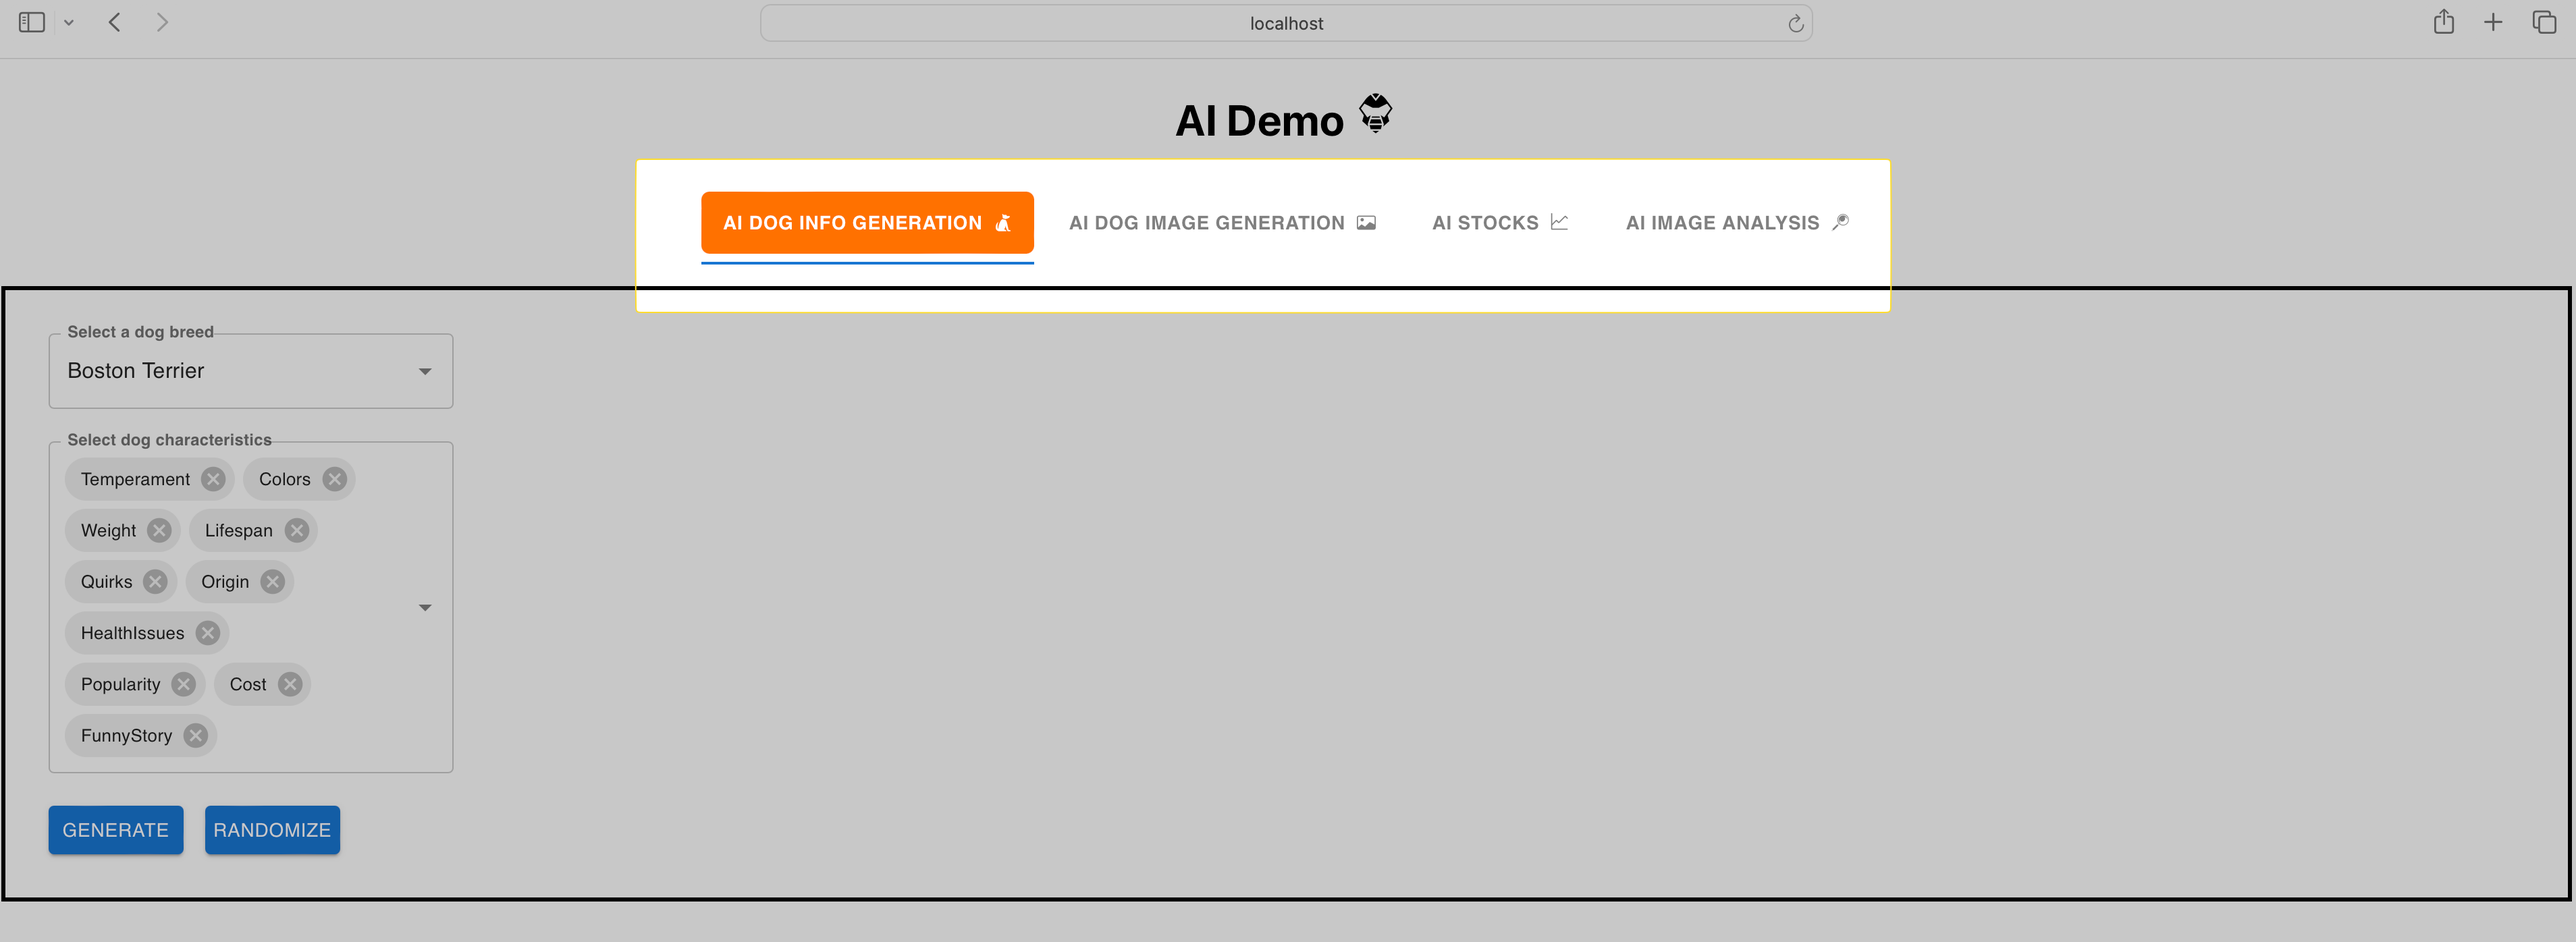
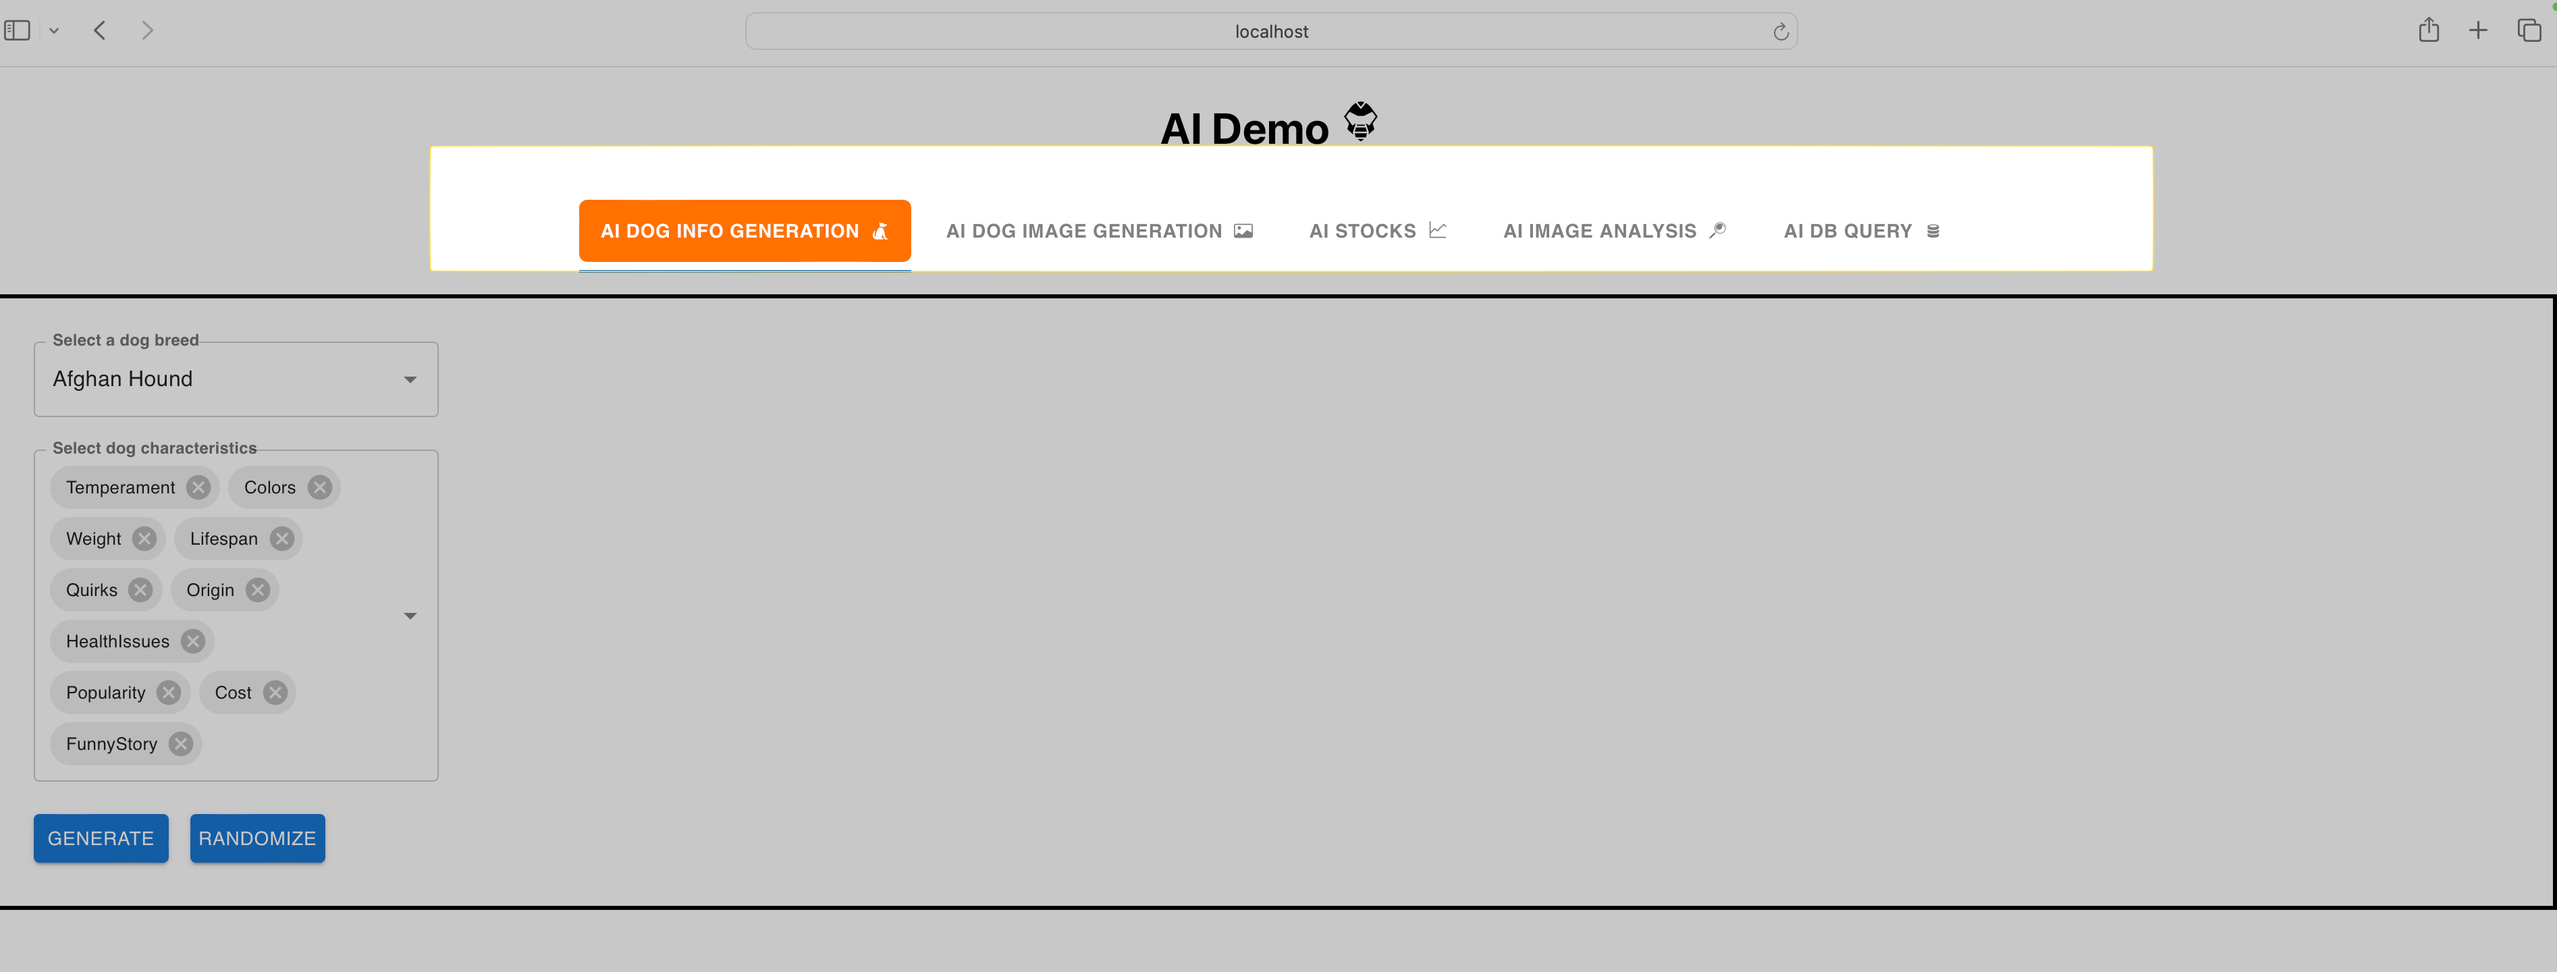
Update README and add new demo gifs
* Updates README with info about the `AI DB Analysis' tab
* Adds new gifs to show how it works

diff --git a/README.md b/README.md
@@ -8,7 +8,7 @@
 * Ensure the backend server is running locally on port `8080`.  Instructions can on running the backend server can be found in that repository's README.
 
 # Layout
-This app is laid out with 4 top-level tabs.  Each of the tabs demonstrates an OpenAI
+This app is laid out with 5 top-level tabs.  Each of the tabs demonstrates an OpenAI
 capability that has been exposed by the backend REST API.  They will be described below.
 
 ![](/documentation/layout.png?raw=true)
@@ -86,7 +86,6 @@ capability that has been exposed by the backend REST API.  They will be describe
     * "What is happening in this picture?"
     * "What foods should I avoid on this menu if I have celiac?"
     * "What is the purpose of the code shown in the picture?"
-  
 
 ![](/documentation/Image_Analysis_Triangles.gif?raw=true)
 
@@ -97,3 +96,20 @@ capability that has been exposed by the backend REST API.  They will be describe
 ![](/documentation/Image_Analysis_Waldo.gif?raw=true)
 
 ![](/documentation/Image_Analysis_Menu.gif?raw=true)
+
+* ## AI DB Analysis
+  This tab provides information about the database hosted by the backend server. 
+
+  Since GPT-4o has no knowledge of the specific database hosted by the backend server, this utilizes the fact that Spring-AI lets you provide functions that can provide this 
+  personalized data as additional context for the AI model to answer questions.  The backend controller provides such a function to call which allows queries to be run against the Northwind database. 
+  This is just a demonstration that the OpenAI model can be given contextual information about the database (its schema) and produce a query that attempts to answer the question passed in.
+
+* This tab calls the REST API to retrieve an image of the database schema.
+* The `ANALYZE` button sends a request to the REST API to answer a question about the database.
+  * Questions like "What is the most popular product and its category?" and "Which customer has the highest total purchases and what did they order the most?" can be asked.
+  * The REST API returns the actual query it used to answer the question asked.
+  * The REST API returns the answer to the question as it can determine based on the query results returned from the database.
+
+![](/documentation/DB_Analysis_1.gif?raw=true)
+
+![](/documentation/DB_Analysis_2.gif?raw=true)
